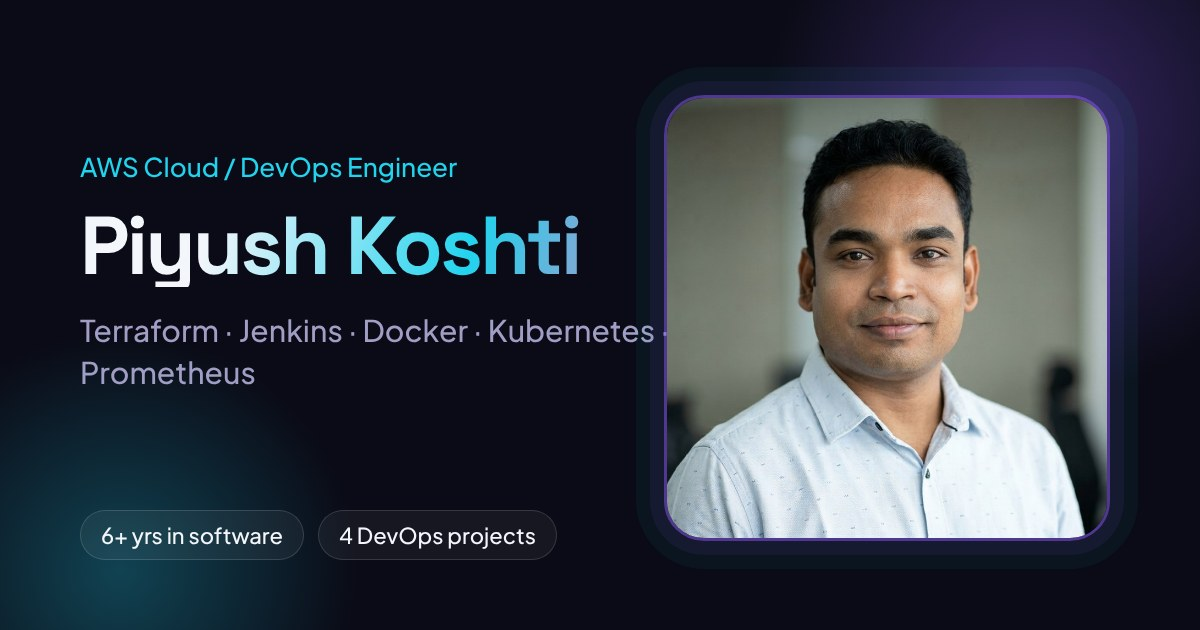
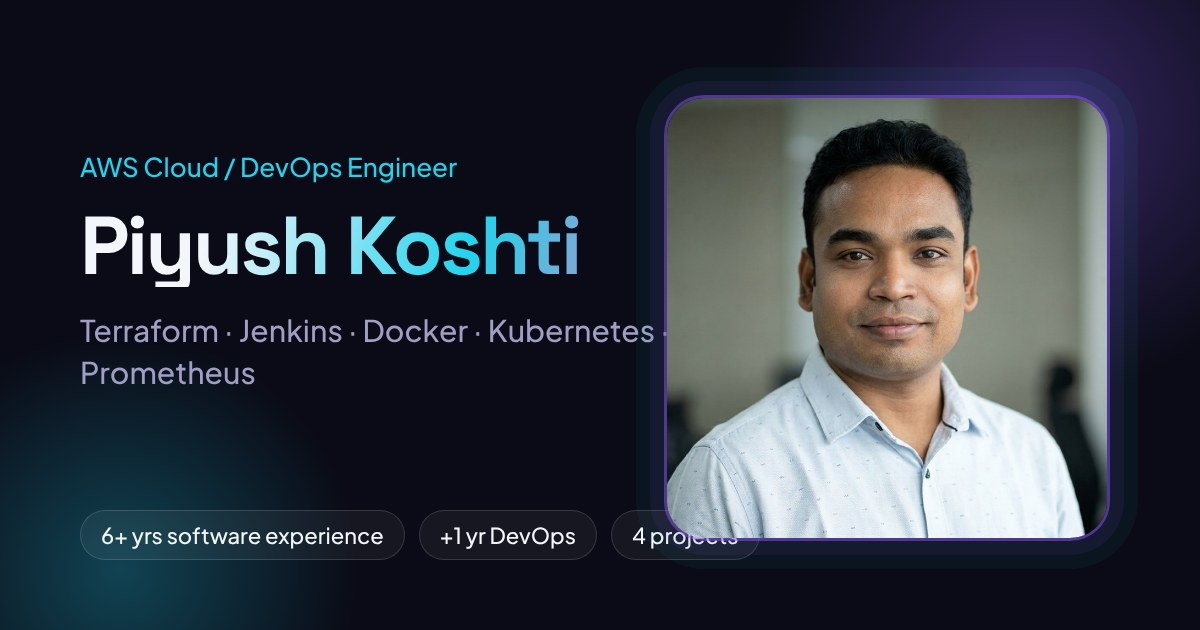
update website design and content

Changed region(s): [[0.1233, 0.8444, 0.4933, 0.8746], [0.5242, 0.8444, 0.6167, 0.8746]]

diff --git a/index.html b/index.html
@@ -4,7 +4,7 @@
   <meta charset="UTF-8">
   <meta name="viewport" content="width=device-width, initial-scale=1">
   <title>Piyush Koshti | AWS Cloud &amp; DevOps Engineer</title>
-  <meta name="description" content="Piyush Koshti — AWS Cloud / DevOps Engineer in Ahmedabad with 6+ years of software experience. Terraform, Jenkins CI/CD, Docker, Kubernetes on EKS, Helm, Prometheus and Grafana.">
+  <meta name="description" content="Piyush Koshti — AWS Cloud / DevOps Engineer in Ahmedabad with 6+ years of software development experience plus 1+ year of hands-on DevOps experience. Terraform, Jenkins CI/CD, Docker, Kubernetes on EKS, Helm, Prometheus and Grafana.">
   <meta name="author" content="Piyush Koshti">
   <meta name="robots" content="index, follow, max-image-preview:large">
   <meta name="keywords" content="Piyush Koshti, AWS Cloud Engineer, DevOps Engineer, Terraform, Jenkins, Docker, Kubernetes, EKS, Helm, Prometheus, Grafana, Ahmedabad">
@@ -31,7 +31,7 @@
 
   <meta name="twitter:card" content="summary_large_image">
   <meta name="twitter:title" content="Piyush Koshti | AWS Cloud &amp; DevOps Engineer">
-  <meta name="twitter:description" content="AWS Cloud / DevOps Engineer with 6+ years of software experience and 4 end-to-end DevOps projects.">
+  <meta name="twitter:description" content="DevOps Engineer with 6+ years of software development experience, plus 1+ year of DevOps experience and 4 end-to-end DevOps projects.">
   <meta name="twitter:image" content="https://piyushdevops410.github.io/assets/img/og-image.jpg">
 
   <script type="application/ld+json">
@@ -42,7 +42,7 @@
     "url": "https://piyushdevops410.github.io/",
     "image": "https://piyushdevops410.github.io/assets/img/avatar-hero.jpg",
     "jobTitle": "AWS Cloud / DevOps Engineer",
-    "description": "AWS Cloud / DevOps Engineer with 6+ years of software development experience and 4 end-to-end DevOps projects.",
+    "description": "AWS Cloud / DevOps Engineer with 6+ years of software development experience, plus 1+ year of DevOps experience and 4 end-to-end DevOps projects.",
     "address": {
       "@type": "PostalAddress",
       "addressLocality": "Ahmedabad",
@@ -121,12 +121,12 @@
             <span class="hero-name">Piyush Koshti</span>
             <span class="hero-line">Automating AWS &amp; Kubernetes<br>delivery from commit<br>to monitored production.</span>
           </h1>
-          <p class="hero-lead">6+ years in software development, with DevOps responsibilities since Feb 2025.</p>
+          <p class="hero-lead">6+ years of software development experience, plus 1+ year of hands-on DevOps work on AWS and Kubernetes.</p>
           <p class="hero-lead">Hands-on with Terraform, Jenkins CI/CD, Docker, Helm, Trivy, Prometheus and Grafana.</p>
           <ul class="hero-metrics">
-            <li><strong>6+</strong><span>Years in software</span></li>
+            <li><strong>6+</strong><span>Years software experience</span></li>
+            <li><strong>1+</strong><span>Year DevOps experience</span></li>
             <li><strong>4</strong><span>DevOps projects</span></li>
-            <li><strong>10+</strong><span>AWS services</span></li>
           </ul>
           <div class="hero-actions">
             <a class="btn btn-primary" href="#projects">View projects</a>
@@ -161,16 +161,23 @@
         <div class="bento">
           <article class="bento-card bento-story reveal">
             <h3>Who I am</h3>
-            <p>AWS Cloud / DevOps Engineer with <strong>6+ years</strong> of software development experience, including DevOps responsibilities since <strong>Feb 2025</strong>.</p>
+            <p>AWS Cloud / DevOps Engineer with <strong>6+ years</strong> of software development experience, plus <strong>1+ year of hands-on DevOps experience</strong> (since Feb 2025) on top of it.</p>
             <p>I have built <strong>4 end-to-end DevOps projects</strong> covering AWS infrastructure provisioning with Terraform, Jenkins CI/CD pipelines, Docker, Kubernetes orchestration on EKS, Helm, HPA autoscaling, Trivy scanning, and Prometheus/Grafana monitoring.</p>
             <p>Hands-on with <strong>10+ AWS services</strong> including EC2, ECS, Fargate, EKS, ECR, S3, IAM, VPC, RDS, and CloudWatch.</p>
           </article>
 
           <article class="bento-card bento-xp reveal" style="--i:1">
-            <p class="xp-label">Total experience</p>
+            <p class="xp-label">Software development experience</p>
             <p class="xp-value" data-count="6">0</p>
             <p class="xp-plus">+</p>
-            <p class="xp-note">Years in software, DevOps since 2025</p>
+            <p class="xp-note">Years building and shipping software</p>
+          </article>
+
+          <article class="bento-card bento-xp is-devops reveal" style="--i:2">
+            <p class="xp-label">DevOps experience</p>
+            <p class="xp-value" data-count="1">0</p>
+            <p class="xp-plus">+</p>
+            <p class="xp-note">Year of hands-on DevOps, in addition to the 6+ years</p>
           </article>
 
           <article class="bento-card bento-half reveal">
@@ -182,7 +189,7 @@
           <article class="bento-card bento-half reveal" style="--i:1">
             <h3>Open to roles</h3>
             <ul class="mini-chips">
-              <li>AWS Cloud Engineer</li><li>DevOps Engineer</li><li>Junior DevOps Engineer</li><li>Cloud Infrastructure Engineer</li>
+              <li>DevOps Engineer</li><li>Junior DevOps Engineer</li><li>AWS Cloud Engineer</li><li>Cloud Infrastructure Engineer</li>
             </ul>
           </article>
         </div>
@@ -195,11 +202,15 @@
         <div class="section-head reveal">
           <p class="eyebrow">Professional experience</p>
           <h2 id="exp-title">From WordPress engineering to AWS cloud and DevOps.</h2>
+          <ul class="exp-summary">
+            <li><strong>6+ years</strong> software development experience</li>
+            <li><strong>1+ year</strong> DevOps experience (additional)</li>
+          </ul>
         </div>
 
         <ol class="timeline">
           <li class="t-item is-current reveal">
-            <span class="t-date">Feb 2025 – Present</span>
+            <span class="t-date">Feb 2025 – Present<small>1+ year in DevOps</small></span>
             <article class="t-card">
               <h3>Software Engineer <small>(DevOps Responsibilities)</small></h3>
               <p class="t-org">EZ Infoways · Ahmedabad, Gujarat</p>
@@ -542,7 +553,7 @@
           <div class="contact-intro">
             <p class="eyebrow">Contact</p>
             <h2>Let’s build reliable cloud infrastructure together.</h2>
-            <p>Based in Ahmedabad, Gujarat, India. Open to AWS Cloud Engineer, DevOps Engineer, Junior DevOps Engineer and Cloud Infrastructure Engineer roles.</p>
+            <p>Based in Ahmedabad, Gujarat, India. Open to DevOps Engineer, Junior DevOps Engineer, AWS Cloud Engineer and Cloud Infrastructure Engineer roles.</p>
           </div>
           <div class="contact-grid is-three">
             <a class="contact-card" href="mailto:piyushdevops410@gmail.com">

diff --git a/assets/css/styles.css b/assets/css/styles.css
@@ -1349,3 +1349,53 @@ html[data-theme="light"] .theme-toggle .icon-moon { display: none; }
 
 /* Name gradient sweeps across the name itself */
 .hero-name { width: fit-content; max-width: 100%; background-image: linear-gradient(100deg, var(--mint) 0%, var(--coral) 55%, var(--amber) 100%); }
+
+/* Experience summary + DevOps tag */
+.exp-summary { list-style: none; margin: 1.1rem 0 0; padding: 0; display: flex; flex-wrap: wrap; gap: .6rem; }
+.exp-summary li {
+  padding: .45rem .95rem; border-radius: 999px;
+  border: 1px solid var(--line); background: rgba(255,255,255,.04);
+  color: var(--muted); font-size: .88rem; font-weight: 600;
+}
+.exp-summary li strong { color: var(--mint); }
+.exp-summary li:last-child { border-color: rgba(244,114,182,.4); background: rgba(244,114,182,.1); }
+.exp-summary li:last-child strong { color: var(--amber); }
+.t-date small {
+  display: block; margin-top: .3rem; color: var(--amber);
+  font-size: .74rem; font-weight: 700; letter-spacing: .02em;
+}
+
+/* About: story on the left, two separate experience cards stacked on the right */
+.bento-story { grid-row: span 2; }
+.bento-xp.is-devops {
+  border-color: rgba(34,211,238,.35);
+  background:
+    radial-gradient(circle at 50% 0%, rgba(34,211,238,.2), transparent 55%),
+    var(--surface-strong);
+}
+.bento-xp.is-devops .xp-value { background-image: linear-gradient(135deg, var(--mint), var(--coral)); -webkit-background-clip: text; background-clip: text; }
+.bento-xp.is-devops .xp-plus { color: var(--mint); }
+.bento-xp .xp-label { font-weight: 700; }
+@media (max-width: 1024px) { .bento-story { grid-row: auto; } }
+
+/* keep gradient numbers visible (card paragraph colour was overriding it) */
+.bento-card .xp-value { color: transparent; }
+.bento-card .xp-plus { color: var(--amber); }
+.bento-xp.is-devops .xp-plus { color: var(--mint); }
+.bento-story { display: flex; flex-direction: column; }
+.story-focus { margin-top: auto !important; padding-top: 1rem; }
+@media (max-width: 1024px) { .story-focus { margin-top: .5rem !important; } }
+
+/* About: Who I am + two experience cards in one row (3 columns) */
+.bento-story { grid-column: span 4; grid-row: auto; }
+.bento-xp { grid-column: span 4; }
+.bento-card .xp-value { font-size: clamp(3.6rem, 6vw, 5rem); }
+@media (max-width: 1024px) {
+  .bento-story { grid-column: span 12; }
+  .bento-xp { grid-column: span 6; }
+}
+@media (max-width: 720px) {
+  .bento-xp { grid-column: span 12; }
+}
+.bento-xp { align-content: center; }
+.bento-xp .xp-plus { margin-top: .1rem; }

diff --git a/assets/js/main.js b/assets/js/main.js
@@ -121,37 +121,34 @@
     reveals.forEach((el) => el.classList.add("is-visible"));
   }
 
-  /* ---------- Experience counter ---------- */
-  const countEl = document.querySelector("[data-count]");
-  if (countEl) {
-    const target = Number(countEl.getAttribute("data-count") || "6");
-    const animate = () => {
-      const start = performance.now();
-      const duration = 1100;
-      const tick = (now) => {
-        const p = Math.min((now - start) / duration, 1);
-        const eased = 1 - Math.pow(1 - p, 3);
-        countEl.textContent = String(Math.round(target * eased));
-        if (p < 1) requestAnimationFrame(tick);
-      };
-      requestAnimationFrame(tick);
+  /* ---------- Experience counters ---------- */
+  const animateCount = (el) => {
+    const target = Number(el.getAttribute("data-count") || "0");
+    const start = performance.now();
+    const duration = 1100;
+    const tick = (now) => {
+      const p = Math.min((now - start) / duration, 1);
+      const eased = 1 - Math.pow(1 - p, 3);
+      el.textContent = String(Math.round(target * eased));
+      if (p < 1) requestAnimationFrame(tick);
     };
-
-    if ("IntersectionObserver" in window) {
-      const cio = new IntersectionObserver(
-        (entries) => {
-          entries.forEach((entry) => {
-            if (!entry.isIntersecting) return;
-            animate();
-            cio.disconnect();
-          });
-        },
-        { threshold: 0.4 }
-      );
-      cio.observe(countEl);
-    } else {
-      animate();
-    }
+    requestAnimationFrame(tick);
+  };
+  const counters = document.querySelectorAll("[data-count]");
+  if ("IntersectionObserver" in window) {
+    const cio = new IntersectionObserver(
+      (entries) => {
+        entries.forEach((entry) => {
+          if (!entry.isIntersecting) return;
+          animateCount(entry.target);
+          cio.unobserve(entry.target);
+        });
+      },
+      { threshold: 0.4 }
+    );
+    counters.forEach((el) => cio.observe(el));
+  } else {
+    counters.forEach(animateCount);
   }
 
   /* ---------- Skill bars ---------- */
